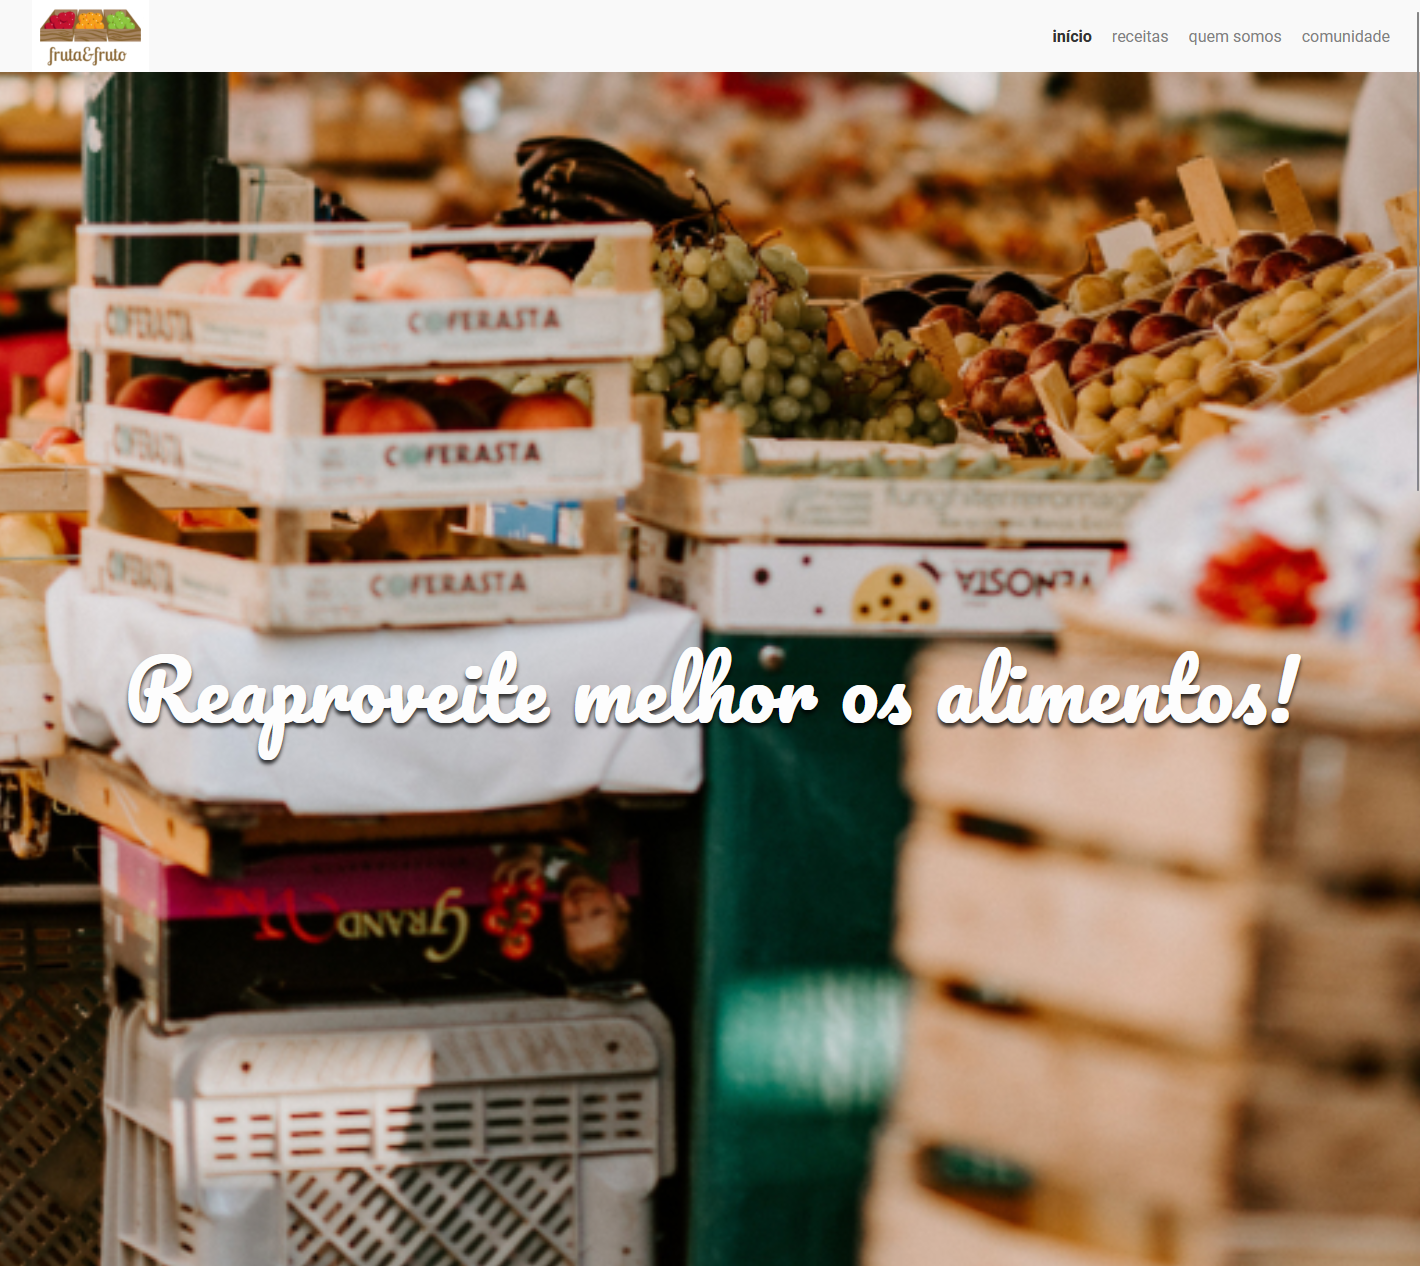
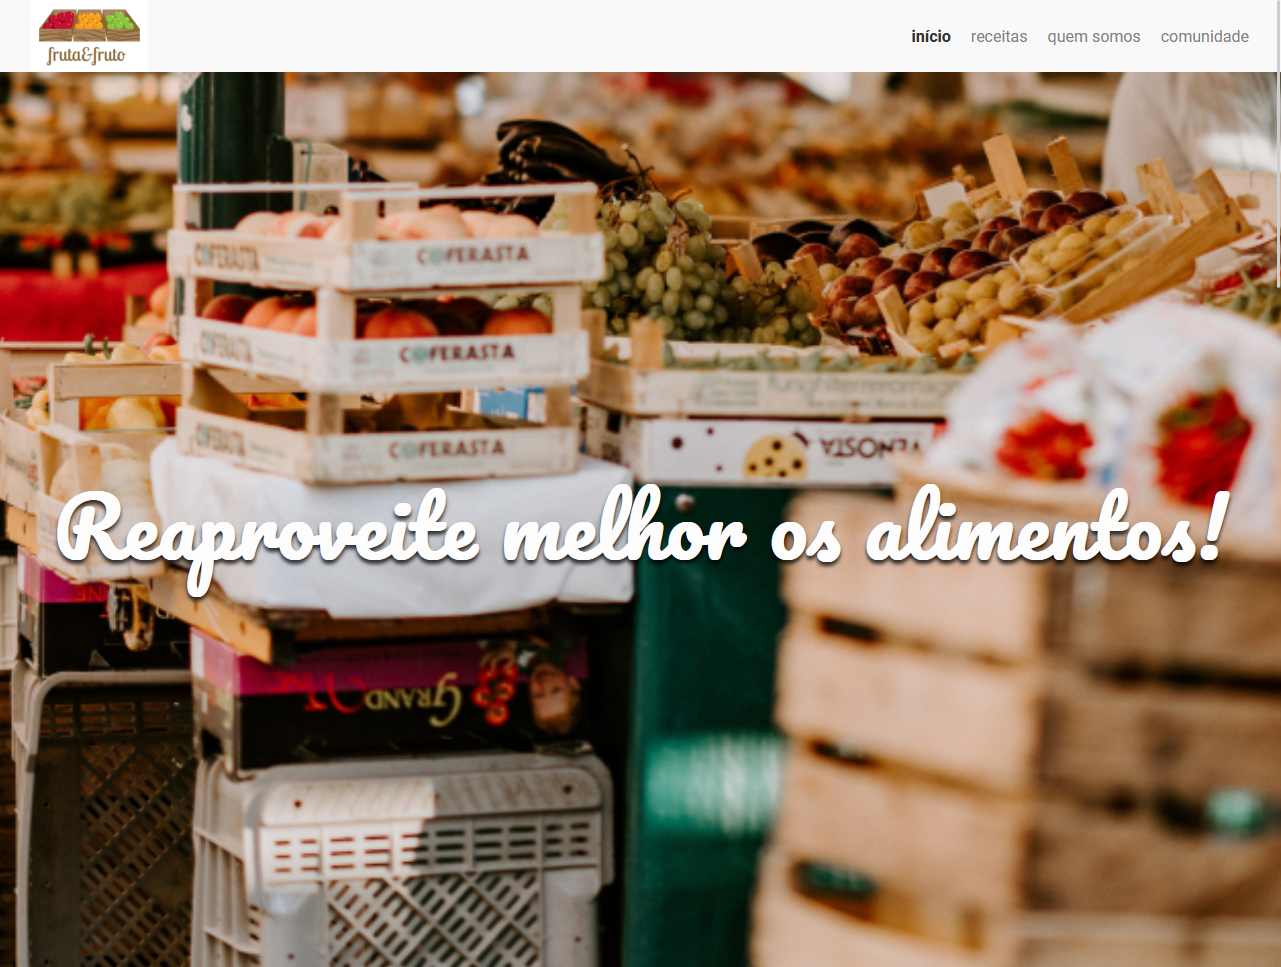
fix : header and src from image projects

diff --git a/src/components/projects/index.js b/src/components/projects/index.js
@@ -3,14 +3,14 @@ import './projects-styles.css'
 import SectionDescription from "../sectionDescription";
 import ProjectItem from "./project-item/index";
 
-
-import clientesSrc from '../../assets/projects/clientes.png'
-
-console.log('clientesSrc 1  ' + clientesSrc) 
+import git from '../../assets/projects/cronometro.png'
+  
+  
+console.log( git)  
 const projects = [
     { 
-        "src" :  'https://raw.githubusercontent.com/davidgamaserrate1/assets-my-applications/master/universe.png',
-        "tools" : "React / React Hooks / HTML / CSS / JS ",
+        "src" :  '/static/media/universe.c5599bebb0af55ed2754.png',
+        "tools" : "React | React Hooks | HTML | CSS | JS ",
         "name" : "Landing Page Universe",
         "desc": "Landing page Space, onde exibe a contagem regressiva para o proximo eclipse e local para a melhor visualização." ,
                
@@ -18,26 +18,34 @@ const projects = [
                
     },
     { 
-        "src" :"https://raw.githubusercontent.com/davidgamaserrate1/assets-my-applications/master/frutaria.png",
-        "tools" : "React / HTML / CSS / JS ",
+        "src" :"/static/media/frutaria.57b28f44d8f6b930c99d.png",
+        "tools" : "React | HTML | CSS | JS",
         "name" : "Landing page frutaria",
         "desc": " Pagina de apresentação de uma frutaria, contendo diversas receitas saudaveis "
         ,"link":"https://fruta-fruto-seven.vercel.app/"                    
     },
     {   
-        "src" : 'https://raw.githubusercontent.com/davidgamaserrate1/assets-my-applications/master/clientes.png',
-        "tools" : "React / HTML/ CSS / JS / Node / Express/ MongoDB" ,
+        // "src" : '/static/media/clientes.aecc8d5f3c12b6caaf82.png',
+        "src" : '/static/media/clientes.7b697e5334f27dde3448.png',
+        "tools" : "React | HTML| CSS | JS | Node | Express | MongoDB" ,
         "name" : "Dashboard Cadastro de Clientes ",
         "desc": " Sistema responsável pelo gerenciamento de clientes e serviços contratados pelos mesmos. Aplicação desenvolvida do zero, desde a criação da API, até o consumo desta no Front end e deploy da aplicação,"
                 + "seguindo boas práticas da Engenharia de Software."
         ,"link":"https://crud-react-rosy-iota.vercel.app/clientes/"                      
     },
     { 
-        "src" : 'https://raw.githubusercontent.com/davidgamaserrate1/assets-my-applications/master/git.png',
-        "tools" : "HTML / CSS / JS / Rest API ",
+        "src" : '/static/media/git.1dde53c59500c9569044.png',
+        "tools" : "React | HTML | CSS | JS | Rest API ",
         "name" : "Search user Github  ",
         "desc": "Aplicação onde é possível buscar usuários do github e seus respectivos repositórios, além da quantidade de seguidores e de pessoas que segue. Consumindo a API do Github."
         ,"link":"https://github.com/davidgamaserrate1/ProfiileGit"                      
+    },
+    { 
+        "src" : '/static/media/cronometro.e20d21ba5a3ca7535d55.png',
+        "tools" : "Vue.JS | HTML | CSS | BULMA CSS | JS | TS",
+        "name" : "Cronometro Atividade",
+        "desc": "Aplicação onde é possível buscar usuários do github e seus respectivos repositórios, além da quantidade de seguidores e de pessoas que segue. Consumindo a API do Github."
+        ,"link":"https://cronometro-atividade.vercel.app/"                      
     }
 ]
 

diff --git a/src/components/education/index.js b/src/components/education/index.js
@@ -18,6 +18,11 @@ const formation =[
         "typeEducation":"curso"
     },
     {
+        "course": "Arquitetura CSS",
+        "institution" :"ALURA",
+        "typeEducation":"curso"
+    },
+    {
         "course": "Node JS : Api Rest com Express e MongoDB",
         "institution" :"ALURA",
         "typeEducation":"curso"
@@ -29,6 +34,11 @@ const formation =[
     },
     {
         "course": "JavaScript para WEB",
+        "institution" :"ALURA",
+        "typeEducation":"curso"
+    },    
+    {
+        "course": "Vue3",
         "institution" :"ALURA",
         "typeEducation":"curso"
     },

diff --git a/src/components/header/header-styles.css b/src/components/header/header-styles.css
@@ -84,23 +84,9 @@ a{
 }
 
 
-@media screen and (max-width:940px ) {
+@media screen and (max-width:940px ) {   
     
-    
-    .references-page{ display: none;
-        /* height: auto;
-        display: inline;
-        border-radius: 10px;
-        background: linear-gradient(90deg, rgba(10,10,10,1)  0%, rgba(12,94,224,1) 59%);     
-        flex-wrap: wrap; */
+    .headerpage{
+        display: none;
     }
-    
-    .header-david{
-        height: 80px;
-        max-width: 1220px;
-    }
-
-    /* .section-tag{
-         
-    } */
 }

diff --git a/src/components/skills/index.js b/src/components/skills/index.js
@@ -39,8 +39,14 @@ const skillsList = [
         "name" :"Rest API", 
         "src":"/static/media/api.9dcdbc3c1f6eb07acfa0.png"
     },
+    {
+        "name" :"Vue", 
+        "src":"https://cdn.jsdelivr.net/gh/devicons/devicon/icons/vuejs/vuejs-original-wordmark.svg"
+    },
 ]
 
+ 
+          
 const Skills = ()=>{
     return (
        <section id="skills-section">

diff --git a/src/components/experience/index.js b/src/components/experience/index.js
@@ -3,6 +3,8 @@ import SectionDescription from "../sectionDescription";
 import ExperienceItem from "./experience-item";
 import './experience-styles.css'
 
+import imgss from '../../assets/logos/grupoc_card.png'
+console.log(imgss)
 const experiences = [
     {
         "empresa":"Grupo Card",
